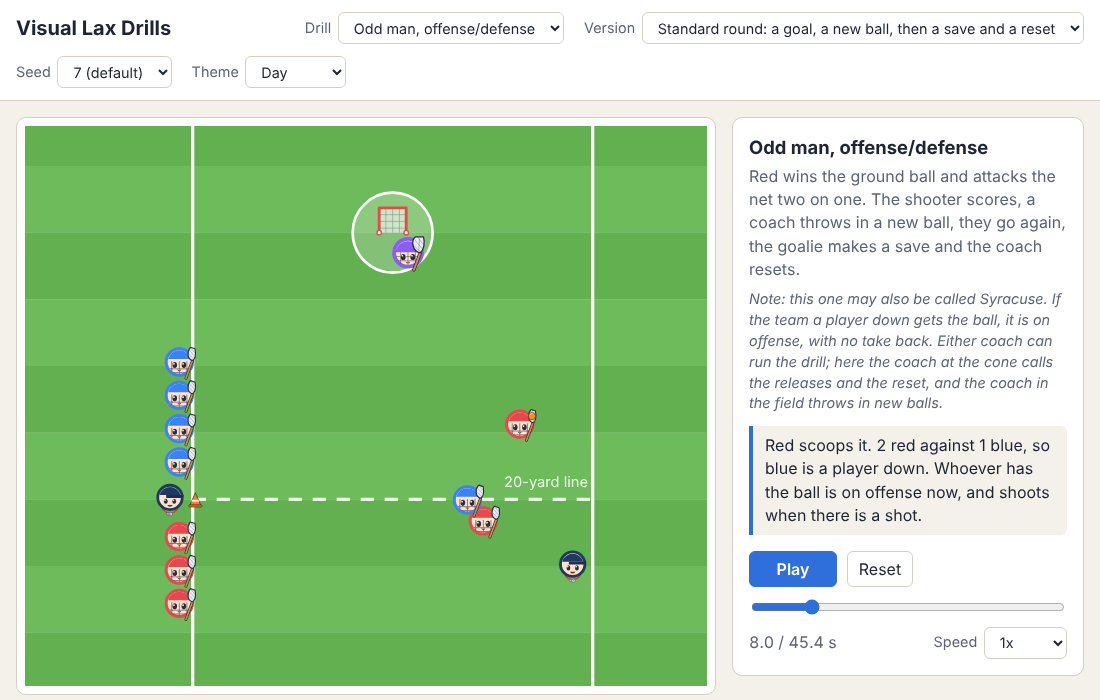
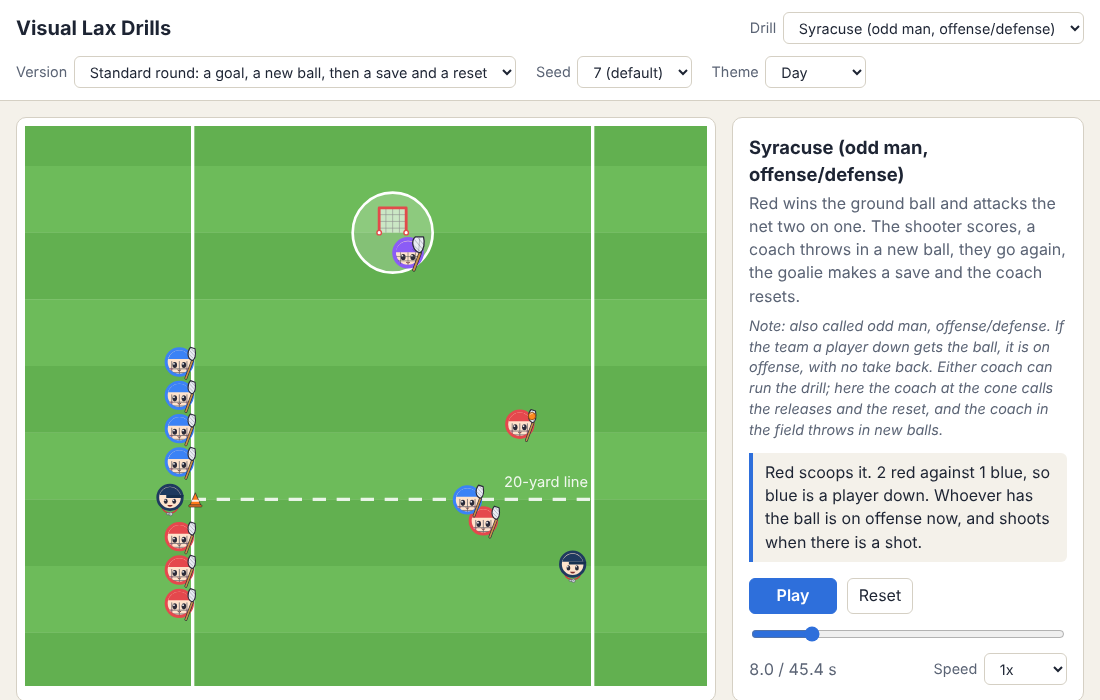
feat: title the odd man drill "Syracuse (odd man, offense/defense)"
The drill is the same; it now shows both names in the list and the README,
and the README and AGENTS.md describe it (they were missing the drill).

AIA PAI SeCeNc Hin R Claude Code Web Sonnet 5.5 Medium v1.0

Vibe-Coder: Vibe-Coder 1.z3r0 <243014891+vibecoder-1z3r0@users.noreply.github.com>

diff --git a/src/js/drills.js b/src/js/drills.js
@@ -91,7 +91,7 @@ export const DRILLS = [
   },
   {
     id: "odd-man",
-    title: "Odd man, offense/defense",
+    title: "Syracuse (odd man, offense/defense)",
     summary:
       "Like keep away, but whoever has the ball is on offense and takes any shot on net. The " +
       "team a player down defends goal side. After a goal a coach can throw in a new ball, call " +
@@ -100,7 +100,7 @@ export const DRILLS = [
     view: { x: 6, y: 7, w: 44, h: 42 },
     iconScale: 1.35,
     notes:
-      "Note: this one may also be called Syracuse. If the team a player down gets the ball, it is on offense, with no take back. Either coach can run the drill; here the coach at the cone calls the releases and the reset, and the coach in the field throws in new balls.",
+      "Note: also called odd man, offense/defense. If the team a player down gets the ball, it is on offense, with no take back. Either coach can run the drill; here the coach at the cone calls the releases and the reset, and the coach in the field throws in new balls.",
     midfieldLabel: false,
     markings: [
       { type: "rect", x: 15, y: 5, w: 30, h: 50 },

diff --git a/tests/test_odd_man.py b/tests/test_odd_man.py
@@ -33,8 +33,7 @@ def test_it_is_listed_after_keep_away_with_four_versions(page):
     assert ids[:3] == ["ground-ball-mania", "keep-away", "odd-man"]
     drill = page.evaluate("LAX.DRILLS.find((d) => d.id === 'odd-man')")
     assert [v["id"] for v in drill["variants"]] == list(VERSIONS)
-    assert drill["title"] == "Odd man, offense/defense"
-    assert "Syracuse" in drill["notes"]
+    assert drill["title"] == "Syracuse (odd man, offense/defense)"
 
 
 def test_the_generated_data_is_current():

diff --git a/session-logs/2026-11-21T0444Z.md b/session-logs/2026-11-21T0444Z.md
@@ -90,17 +90,19 @@ edit it by hand; a later session writes its own file instead of changing this on
 | 79 | Merged and deleted | 19:51:50 | 7s | 9m 29s | 12 | 864 | 1,106 | 1,211,292 |
 | 80 | The next drill is similar to keep away, but instead of just passing, i… | 20:01:26 | 6m 46s | 29m 59s ⏳ | 117 | 87,834 | 140,380 | 16,918,288 |
 | 81 | Do you have the seeds stored anywhere else? Can we lazy load them? Lik… | 20:38:11 | 9s | 41s | 8 | 2,134 | 9,232 | 633,254 |
-| 82 | Well we'd have 1 seed for each with the option to load the others? I t… | 20:39:02 | 3m 56s | — | 50 | 27,367 | 40,555 | 8,362,505 |
+| 82 | Well we'd have 1 seed for each with the option to load the others? I t… | 20:39:02 | 4m 2s | 3s | 52 | 27,869 | 41,461 | 8,709,036 |
+| 83 | Yeah we don't have to keep it "single file" like single file for the d… | 20:43:07 | 2s | 15m 42s ⏳ | 8 | 484 | 1,100 | 694,874 |
+| 84 | You didn't make Syracuse yet? | 20:58:51 | 2m 37s | — | 28 | 6,890 | 17,461 | 4,244,150 |
 
-**Total turns:** 82  
-**Total agent time spent (excl. flagged):** 2h 30m  
+**Total turns:** 84  
+**Total agent time spent (excl. flagged):** 2h 33m  
 **Total human think time (excl. outliers):** 2h 5m  
-**Average human think time (excl. outliers):** 1m 42s  
-**Think-time outliers (> 15 min):** 7  
-**Total input tokens:** 3,083  
-**Total output tokens:** 1,781,720  
-**Total cache-write tokens:** 3,450,615  
-**Total cache-read tokens:** 574,815,008  
+**Average human think time (excl. outliers):** 1m 41s  
+**Think-time outliers (> 15 min):** 8  
+**Total input tokens:** 3,121  
+**Total output tokens:** 1,789,596  
+**Total cache-write tokens:** 3,470,082  
+**Total cache-read tokens:** 580,100,563  
 **Cache hit ratio (cache-read / all prompt-side tokens):** 99%
 
-⏳ Turn(s) 29, 51, 57, 58, 59, 70, 80 show think time over 15 min (total 11h 22m), likely a break or a resumed session. Excluded from the total and the average, still shown per row.
+⏳ Turn(s) 29, 51, 57, 58, 59, 70, 80, 83 show think time over 15 min (total 11h 37m), likely a break or a resumed session. Excluded from the total and the average, still shown per row.

diff --git a/AGENTS.md b/AGENTS.md
@@ -54,7 +54,7 @@ Python is dev tooling only (build script, Playwright tests).
 ## Decisions so far
 - **Scope first:** a generic half-field / zone layout. Other formats (men's, women's, box) come later.
 - **Drills so far:** ground ball mania (a line of four, one ball rolled out at a time, staggered; it is first in
-  the list, so it is the default), keep away (second), two-man pass and shoot, cone weave, catch and throw. Tests and the
+  the list, so it is the default), keep away (second), Syracuse, also called odd man offense/defense (third; id `odd-man`), two-man pass and shoot, cone weave, catch and throw. Tests and the
   screenshot script find drills by id, never by position, so the order can change.
 - **Playback:** full controls (play, pause, scrub, speed, step through keyframes, reset), with a
   caption per phase.
@@ -77,6 +77,12 @@ Python is dev tooling only (build script, Playwright tests).
   out of bounds to the east). Its five versions (each with five seeds; one has a pass go out of bounds and a coach throw in a new ball) are generated by
   `scripts/choreography.py` into `src/js/keepaway_data.js` (`make choreography`; a test fails
   if the file is stale). Do not edit that file by hand; change the script and its seeds.
+- **Syracuse (odd man, offense/defense)** uses the same field as keep away and the same generator
+  (`scripts/choreography.py`, `mode: "offense"`, output `src/js/oddman_data.js`). Whoever has the
+  ball is on offense: they drive at the goal and shoot at a goalie (`team: "none"`, purple) when there
+  is a shot. Each round lists its `shots` (`goal`, `save` or `wide`) and what the coaches do after each
+  (`new_ball`, `new_ball_release`, `reset`). The team a player down that gets the ball is on offense,
+  no take back. Players keep out of the crease; everyone walks back to the lines on reset.
 - **Seeds and takes:** a generated version has its default take inline and lists all its `seeds`.
   The other takes are generated files `src/takes/<drill>/<version>-<seed>.js` (committed, copied to
   `dist/takes/` by the build) that register themselves in `window.LAX_TAKES`; `src/js/takes.js` loads

diff --git a/README.md b/README.md
@@ -18,14 +18,16 @@ out, scoops one, rolls it back to the coach on the run and rejoins the line, all
 |---|---|
 | Ground ball mania (the default) | A line of four scoops balls rolled out by the coach, one after another. |
 | Keep away | Five a side on the sideline; two red and one blue chase a rolled ball, then play keep-away. A whistle releases one more from each line (up to 5v4); a countdown from 5 ends the round. Five versions (Version menu), each with five seeds (Seed menu) that play out differently. |
+| Syracuse (odd man, offense/defense) | Like keep away, but whoever has the ball is on offense and shoots when there is a shot, at a goalie. After a goal: a new ball, a reset, or a new ball plus a release. Four versions, each with five seeds. |
 | Two-man pass and shoot | Attackers swing the ball across the top, one cuts to the crease and finishes. |
 | Cone weave and finish | Carry the ball through four cones, then shoot from the top of the crease. |
 | Catch and throw | Two players twelve yards apart pass the ball back and forth. |
 
 | | |
 |---|---|
-| ![Keep away](docs/screenshots/keep-away.png) | ![Two-man pass and shoot](docs/screenshots/two-man-shoot.png) |
-| ![Cone weave and finish](docs/screenshots/cone-weave.png) | ![Catch and throw](docs/screenshots/catch-and-throw.png) |
+| ![Keep away](docs/screenshots/keep-away.png) | ![Syracuse (odd man, offense/defense)](docs/screenshots/odd-man.png) |
+| ![Two-man pass and shoot](docs/screenshots/two-man-shoot.png) | ![Cone weave and finish](docs/screenshots/cone-weave.png) |
+| ![Catch and throw](docs/screenshots/catch-and-throw.png) | |
 
 ## Themes
 
